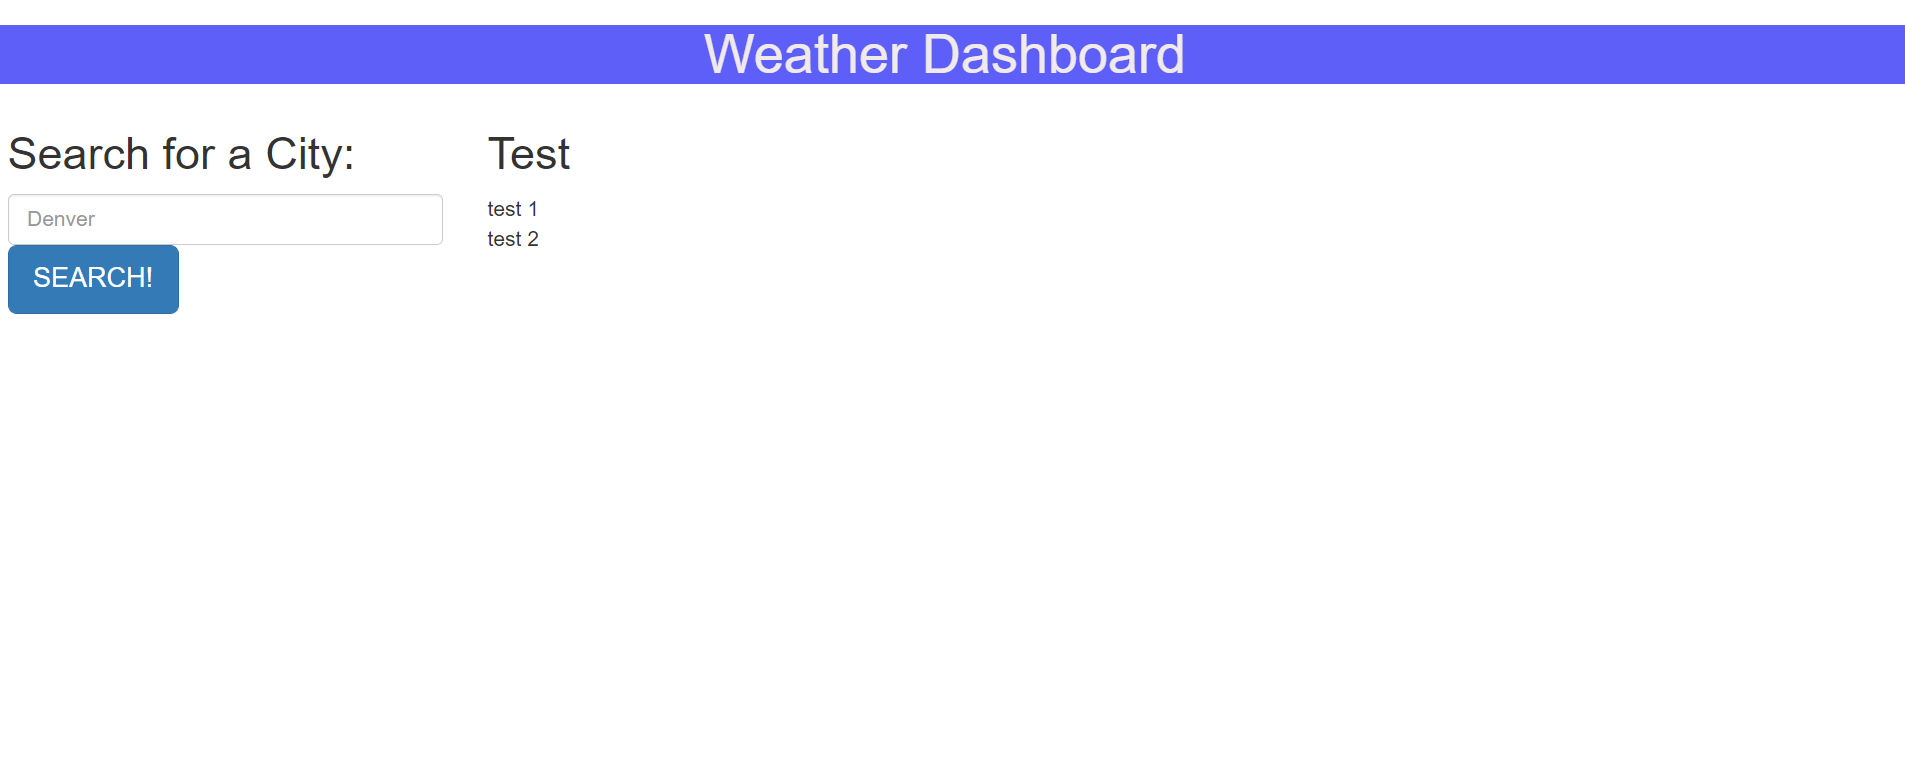
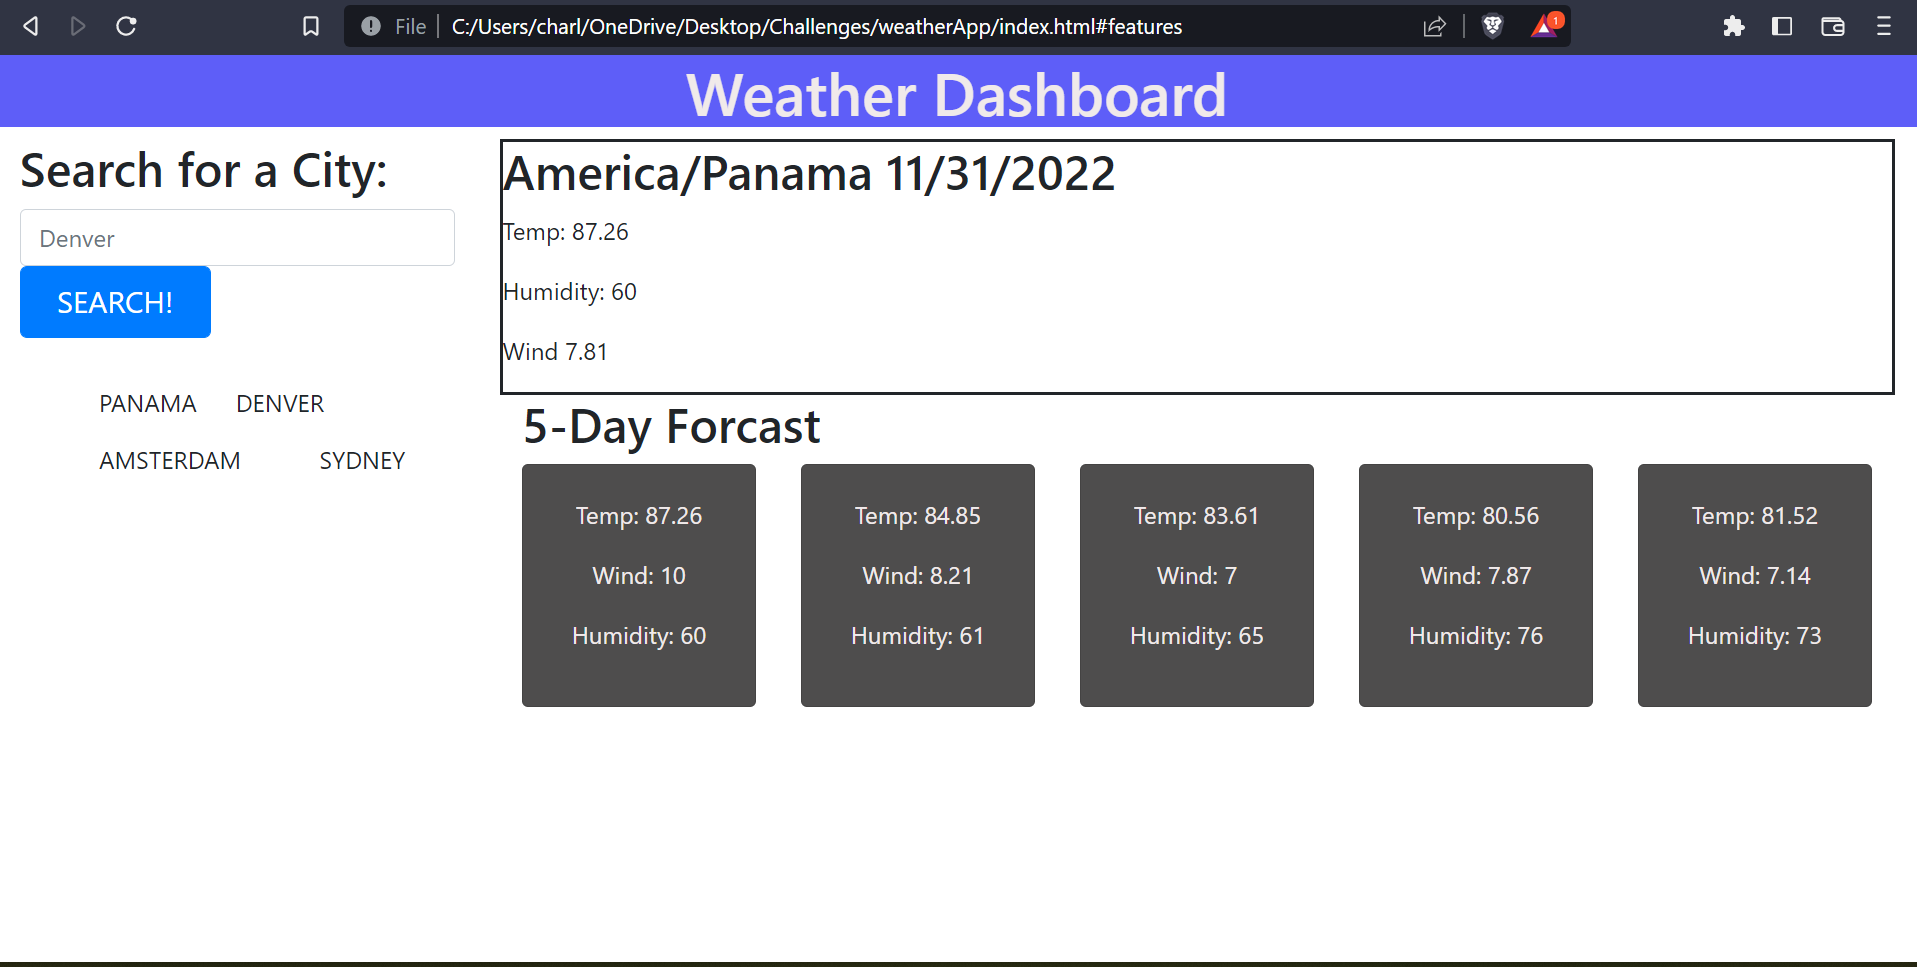
Updated the readme file

diff --git a/script.js b/script.js
@@ -49,11 +49,12 @@ function fetchForecastWeather(lat, lon) {
 	// returning current data to todays weather section
 	fetch(searchUrl).then(function (response) {
 		return response.json().then(function (data) {
-			//console.log(data);
+			console.log(data);
 			currentTemp.text("Temp: " + data.current.temp);
 			currentWind.text("Wind " + data.current.wind_speed);
 			currentHumidity.text("Humidity: " + data.current.humidity);
-			cityWeather.text(inputform.val() + "   " + fullDate);
+			//cityWeather.text(inputform.val() + "   " + fullDate);
+			cityWeather.text(data.timezone + " " + " " + " " + fullDate);
 			//displayForecastWeather(data.daily)
 			fetch5dayforcast(data.daily, fullDate);
 		});
@@ -81,7 +82,9 @@ function fetch5dayforcast(daily, fullDate) {
 //eventlistener for search
 searchButton.on("click", function () {
 	fetchCoordinates(inputform.val());
+	//document.getElementById('search-input').value = " ";
 });
+
 
 function searchHistory() {
 	resultsButtons.html("");
@@ -103,6 +106,8 @@ function searchHistory() {
 		button.on("click", function () {
 			// this snags varible for valule.  Brings city in and sets it as value
 			fetchCoordinates($(this).val());
+			//console.log(($(this).val())
+			//console.log
 		});
 		$("#lastSearchButtons").append(button);
 	}

diff --git a/README.md b/README.md
@@ -21,6 +21,6 @@ link to page:
 
 Used to check the five day forcast.
 
-## license
+## License
 
 None
